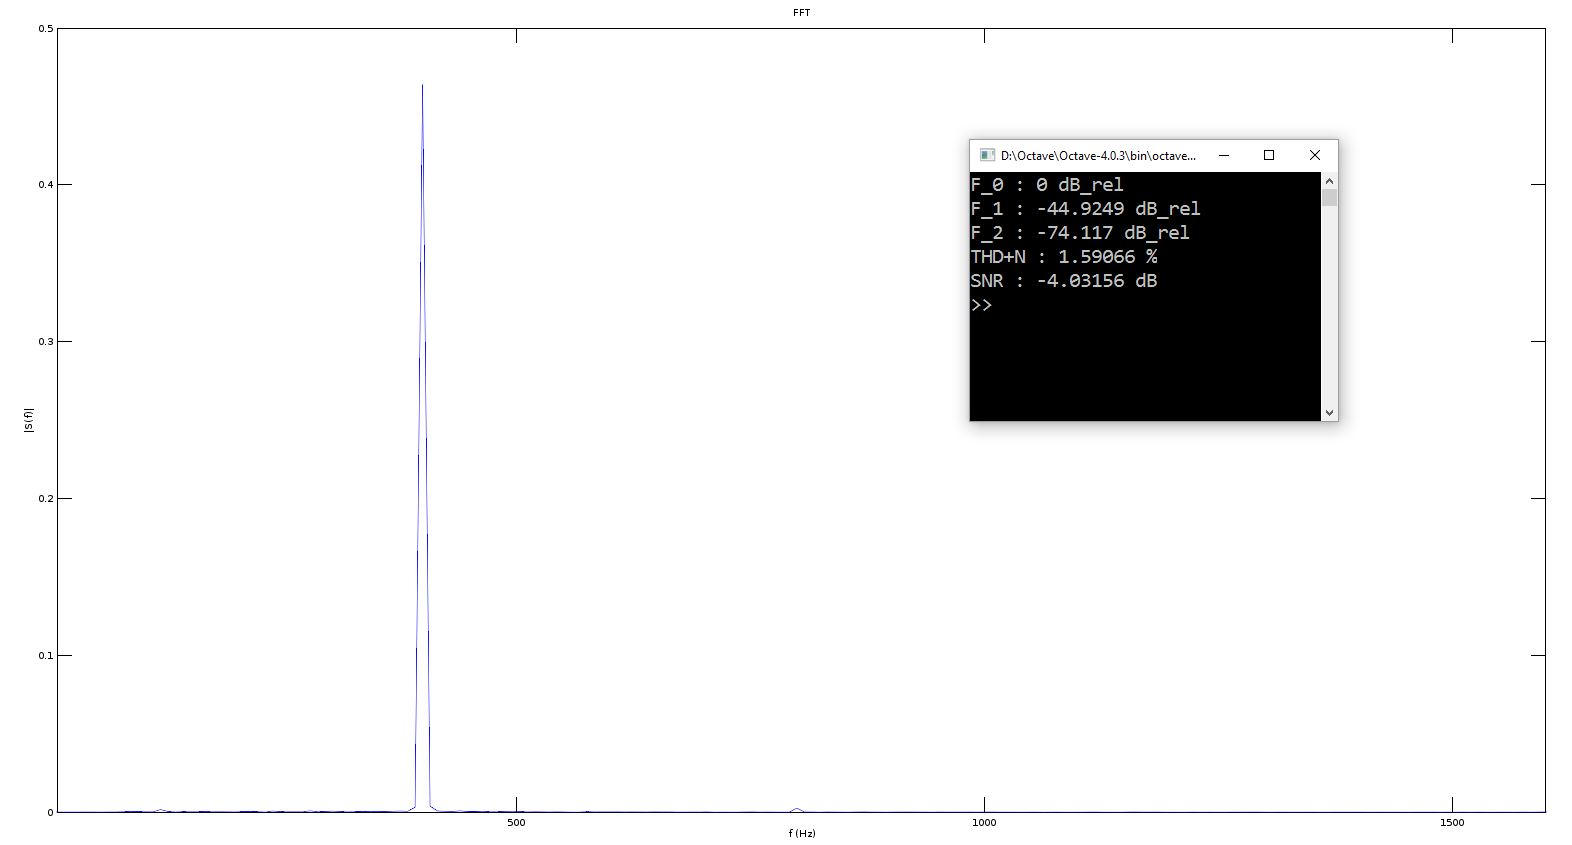
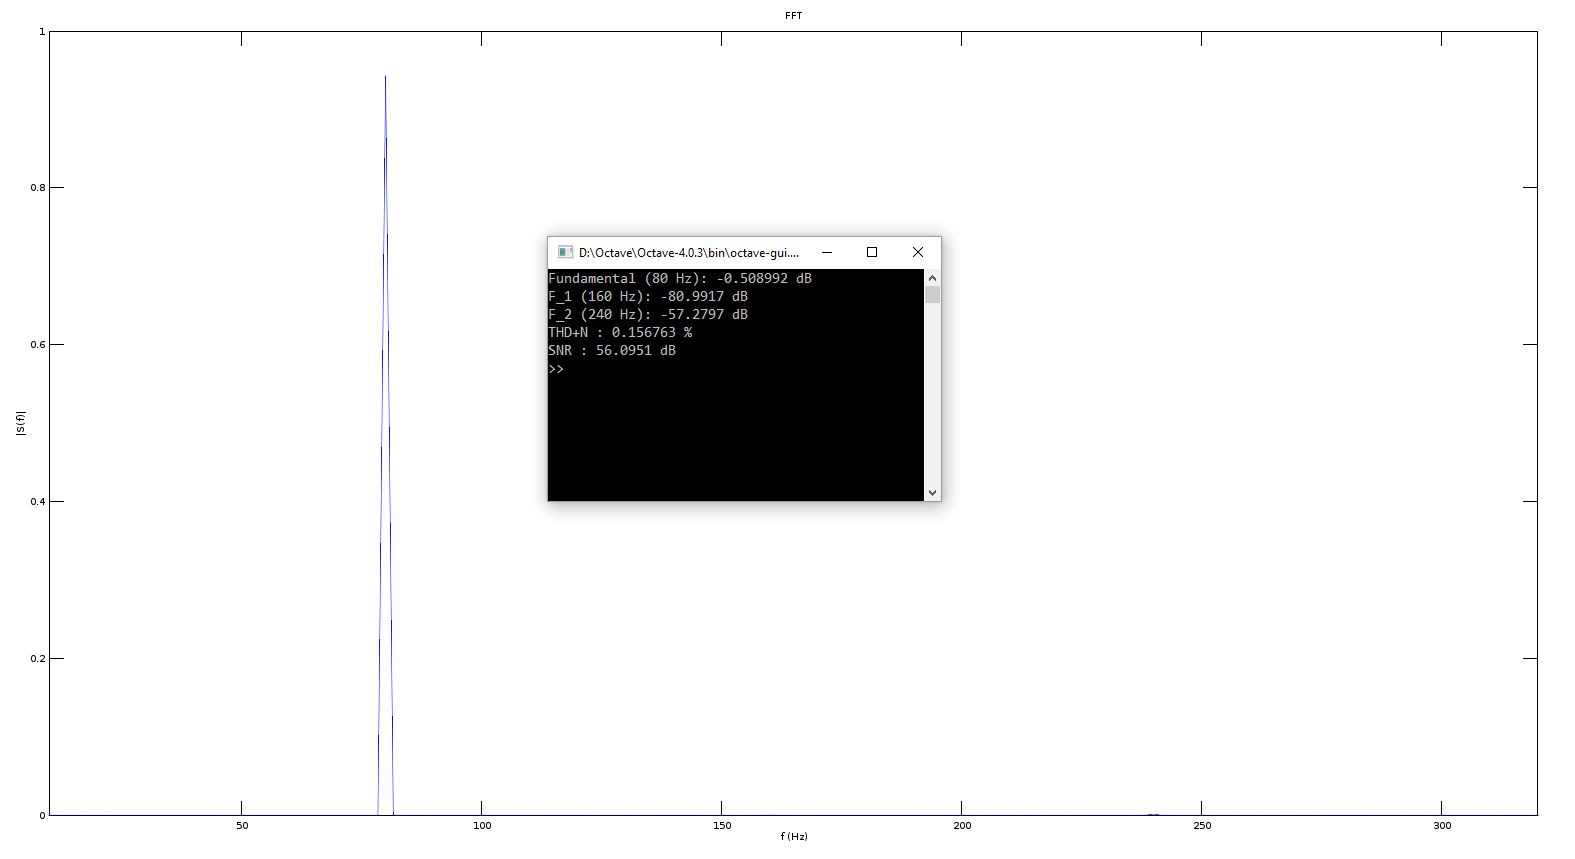
Alpha Version : - RMS function implemented - THD and SNR computing implemented - FFT computing improved - Unknown phase shift bug fixed - Accuracy increased - Minor bugs fixed - Pictures updated - README updated

diff --git a/src/sweep.m b/src/sweep.m
@@ -3,7 +3,7 @@
 %{
 	> [File Name] sweep.m
 	> [Platform] Octave GNU
-	> [Version] 1.00
+	> [Version] alpha
 	> [Author] Richard
 	> [Date] 10/08/2016
 	> [Language] .m file
@@ -43,11 +43,11 @@ function sweep(low,high,order,boolPlot)
 	
 	Fmax = order*(10^(b+1));
 	
-	Fs = min(max(2*Fmax,1000),192000) %sampling rate (1kHz<Fs<192kHz)
+	Fs = min(max(2*Fmax,1000),192000); %sampling rate (1kHz<Fs<192kHz)
 	df = (10^a)/2; % df : biggest value < smallest step
-	N = ceil(Fs/df) %number of samples
-	T = N/Fs; % min observation period
-	t = 0:1/Fs:2*T-(1/Fs); %time vector
+	N = ceil(Fs/df); %number of samples
+	T = min(2*max(N/Fs,0.2),6); % min observation period
+	t = 0:1/Fs:T-(1/Fs); %time vector
 
 	%recording @ <Fs>Hz sample rate, 16 bits, mono
 	recorder = audiorecorder (Fs, 16, 1);
@@ -56,7 +56,7 @@ function sweep(low,high,order,boolPlot)
 	for p = a:b
 		for u = 1:0.5:9.5
 			f = u*10^p;
-			sinu = cos(2*pi*f*t);
+			sinu = sin(2*pi*f*t);
 			
 			%playing the frequency @ <Fs>Hz sample rate
 			player = audioplayer (sinu, Fs);
@@ -71,7 +71,8 @@ function sweep(low,high,order,boolPlot)
 			data = getaudiodata(recorder);    
 			stop(player);
 			
-			signal = data(end-N:end-1); %extract the response signal
+			%extract the response signal
+			signal = data(end-N:end-1); %if wanted, use a window here
 			[fourier, H, THD, SNR] = analyze(signal, Fs, f, order);
 			
 			%computing the data
@@ -84,24 +85,25 @@ function sweep(low,high,order,boolPlot)
 	endfor 
 	
 	if boolPlot
-		subplot(211),
+		clf;  %clear previous plots
+		subplot(211,'align'),
 			semilogx(r(1,:),r(2:order+1,:));
 			title('Harmonic Response')
 			xlabel('f (Hz)')
 			ylabel('dB')
-			legend('F_0','F_1','F_2','F_3')
+			legend('F_0','F_1','F_2','F_3','location','southoutside')
 			grid on
-			axis ([low high]);
-		subplot(212),
+			axis ([low high -70 10]);
+		subplot(212,'align'),
 			w = plotyy (r(1,:), r(order+2,:), r(1,:), r(order+3,:), @semilogx);
 			title('Distortion measures') 
 			xlabel('f (Hz)')
 			ylabel(w(1),'%')
 			ylabel(w(2),'dB')
-			legend('THD+N','SNR_d_B')
+			legend('THD+N','SNR_d_B','location','southoutside')
 			grid on
-			axis (w(1), [low high 0 100])
-			axis (w(2), [low high -60 10]);
+			axis (w(1), [low high 0 10])
+			axis (w(2), [low high 0 120]);
 	endif
 	
 	stop(player);

diff --git a/src/analyze.m b/src/analyze.m
@@ -3,7 +3,7 @@
 %{
 	> [File Name] analyze.m
 	> [Platform] Octave GNU
-	> [Version] 1.00
+	> [Version] alpha
 	> [Author] Richard
 	> [Date] 10/08/2016
 	> [Language] .m file
@@ -17,39 +17,43 @@ function [fourier, H, THD, SNR] = analyze(signal, Fs, fgen, order)
 	t = 0:1/Fs:(N-1)/Fs; %time vector
 	f = (0:N/2-1)*Fs/N; %frequency vector
 	
-	tf = 2*abs(fft(signal)/N); %fft in complex domain
-	tfreal = tf(1:N/2); %fft in real domain
+	Sc = abs(fft(signal)/N); %fft in complex domain
+	S = 2*Sc(1:N/2); %fft in real domain
 	
 	H = zeros(1,order);	
 	for o = 1:order  %for all harmonics
 		index = ceil(o*fgen*N/Fs); %index of the frequency
-		if index < 3
-		H(o) = max(tfreal(index:index+2));
-		elseif index+2 < N/2
-		H(o) = max(tfreal(index-2:index+2));
-		else H(o) = 0.001;
+		if index+1 < N/2
+			H(o) = max(S(index:index+1));
+		else H(o) = 0.0001; % set to -80dB
 		endif
 	endfor
 	
 	fourier(1,:) = f;
-	fourier(2,:) = tfreal;
+	fourier(2,:) = S;
 	
 	% fundamental frequency injected in the system
-	fund = (H(1)*cos(2*pi*fgen*t))';
-	% parasite signal created by the system (harmonics + noise)
-	hn = signal - fund;
+	f0 = H(1)*sin(2*pi*fgen*t)';
+	F0c = 2*abs(fft(f0)/N); %fft in complex domain
+	F0 = F0c(1:N/2); %fft in real domain
 	
+	% parasite signal created by the system (harmonics + noise)
+	HN = S - F0; %fft in real domain
+	
+	% Choose the THD wanted :
 	%THD = 100*sqrt(sum(H(2:order).^2))/H(1); %THD_F
 	%THD = 100*sqrt(sum(H(2:order).^2)/sum(H(1:order).^2)); %THD_R
-	THD = rms(hn)/rms(fund); %THD+N
+	THD = 100*rms(HN)/rms(F0); %THD+N
 		
-	SNR = 20*log10(rms(fund)/rms(hn)); %SNR to dB
+	SNR = 20*log10(rms(F0)/rms(HN)); %SNR to dB
 	
 endfunction
 
-function v = rms(signal)
-	%computes the RMS in time domain
-	v = norm(signal)/sqrt(length(signal));
+
+function v = rms(S)
+	%computes the RMS in real frequency domain
+	 v = sqrt(sum(S.^2)/2);
 endfunction
+
 
 %--------------------------------------EOF--------------------------------------

diff --git a/src/measure.m b/src/measure.m
@@ -3,7 +3,7 @@
 %{
 	> [File Name] measure.m
 	> [Platform] Octave GNU
-	> [Version] 1.00
+	> [Version] alpha
 	> [Author] Richard
 	> [Date] 10/08/2016
 	> [Language] .m file
@@ -12,23 +12,26 @@
 %}
 
 
-function measure(f, order)
+function measure(f, order,boolPlot)
 	
 	%assertion
 	if nargin < 2
 		order = 3;
+		boolPlot = 0;
+	elseif nargin < 3	
+		boolPlot = 0;
 	%else exit;
 	endif
 	
 	f = min(max(f,10),30000);
 	order = min(max(order,1),4);
 	
-	Fmax = 2*order*f;
+	Fmax = 2*order*f; % x2 because I can...
 	
 	Fs = min(max(2*Fmax,1000),192000); %sampling rate (1kHz<Fs<192kHz)
 	df = f/50; % df : 20pts per harmonic
 	N = ceil(Fs/df); %number of samples
-	T = min(2*max(N/Fs,0.5),6); % min observation period
+	T = min(2*max(N/Fs,0.2),6); % min observation period
 
 	%recording @ <Fs>Hz sample rate, 16 bits, mono
 	recorder = audiorecorder (Fs, 16, 1);
@@ -40,17 +43,22 @@ function measure(f, order)
 	data = getaudiodata(recorder);    
 	stop(recorder);
 
-	signal = data(end-N:end-1); %extract the response signal
+	%extract the response signal
+	signal = data(end-N:end-1); %if wanted, use a window here
 	[fourier, H, THD, SNR] = analyze(signal, Fs, f, order);
 	
-	plot(fourier(1,2:end),(fourier(2,2:end)));
-		title('FFT')
-		xlabel('f (Hz)')
-		ylabel('|S(f)|')
-		axis ([10 (order+1)*f]);
-		
-	for i = 1:order
-		printf('F_%u (%u Hz): %d dB_rel\n\r',i-1,i*f,20*log10(H(i)/H(1)));
+	if boolPlot
+		clf; %clear previous plots
+		plot(fourier(1,2:end),(fourier(2,2:end)));
+			title('FFT')
+			xlabel('f (Hz)')
+			ylabel('|S(f)|')
+			axis ([10 (order+1)*f]);
+	endif
+	
+	printf('Fundamental (%u Hz): %d dB\n\r',f,20*log10(H(1)));
+	for i = 2:order
+		printf('F_%u (%u Hz): %d dB\n\r',i-1,i*f,20*log10(H(i)));
 	endfor
 	printf('THD+N : %d %%\n\rSNR : %d dB\n\r',THD,SNR);
 

diff --git a/test.m b/test.m
@@ -3,7 +3,7 @@
 %{
 	> [File Name] test.m
 	> [Platform] Octave GNU
-	> [Version] 1.00
+	> [Version] alpha
 	> [Author] Richard
 	> [Date] 10/08/2016
 	> [Language] .m file
@@ -12,8 +12,9 @@
 
 
 %-----------------------------------INCLUDES------------------------------------
-%load the audio package (player/recorder)
-pkg load audio;
+%load packages 
+pkg load audio; %(player/recorder)
+pkg load signal; %not used for now
 
 %load the implemented functions
 addpath ("./src");
@@ -22,27 +23,27 @@ addpath ("./src");
 
 function test_measure(f,n)
 	
-	Fs = 44100;
-	T = 3;
+	Fs = 48000;
+	T = 7;
 	t = 0:1/Fs:T-(1/Fs); %time vector
-	sinu = cos(2*pi*f*t);
+	sinu = sin(2*pi*f*t);
 	
 	player = audioplayer (sinu, Fs);
 	play (player);
 	
-	measure(f,n);
+	measure(f,n,1);
 	
 	stop (player);
 endfunction
 
 %------------------------------------SCRIPT-------------------------------------
+clear; %clear workspace
+clc; %clear command shell
 
-%clear all
-clear;
-clc;
-%clf;
+%test the sweep function
+%sweep(5,40000,3);
 
-%sweep(10,30000,3);
-test_measure(400,4);
+%test the measure function
+test_measure(80,3);
 
 %--------------------------------------EOF--------------------------------------

diff --git a/README.md b/README.md
@@ -1,30 +1,30 @@
 # EASA
 Electrical Audio Spectrum Analyzer
 
-Measures a speaker and display the spectrum analysis as the harmonic frequency response and several distortion rates using Octave GNU software.
+Measures a system and display the spectrum analysis as the harmonic frequency response and several distortion rates using Octave GNU software.
 
 FEATURES :
 - From 10Hz to 30kHz spectrum analysis
 - Frequency response up to the 4th harmonic
 - Computing THD and SNR
-- Frequency sweep analysing with spectrum display
+- Frequency stepped sweep analysing with spectrum display
 - Optimized analysis algorithm
 - Auto-adjusted sampling frequency
-- Analysis time <1min
+- Frequency stepped sweep analysis time <1min
 
 USER MANUAL :
 
-1 - Connect a microphone and the speakers to test to your computer
+1 - Connect the system to test (input : mic, amplifier output.... /output : speakers, amplifier input.... ) to your computer
 
-2 - Place the microphone in front of the speakers (@~1m)
+2 - If speaker/mic test, place the microphone in front of the speakers (@~1m)
 
-3 - Set your speakers volume
+3 - Set your system volume
 
 4 - Run the software with Octave GNU
 
 5 - Observe the response
 
-6 - Correct your speakers
+6 - Correct your system
 
 7 - Repeat steps 4 to 6 if necessary.
 
